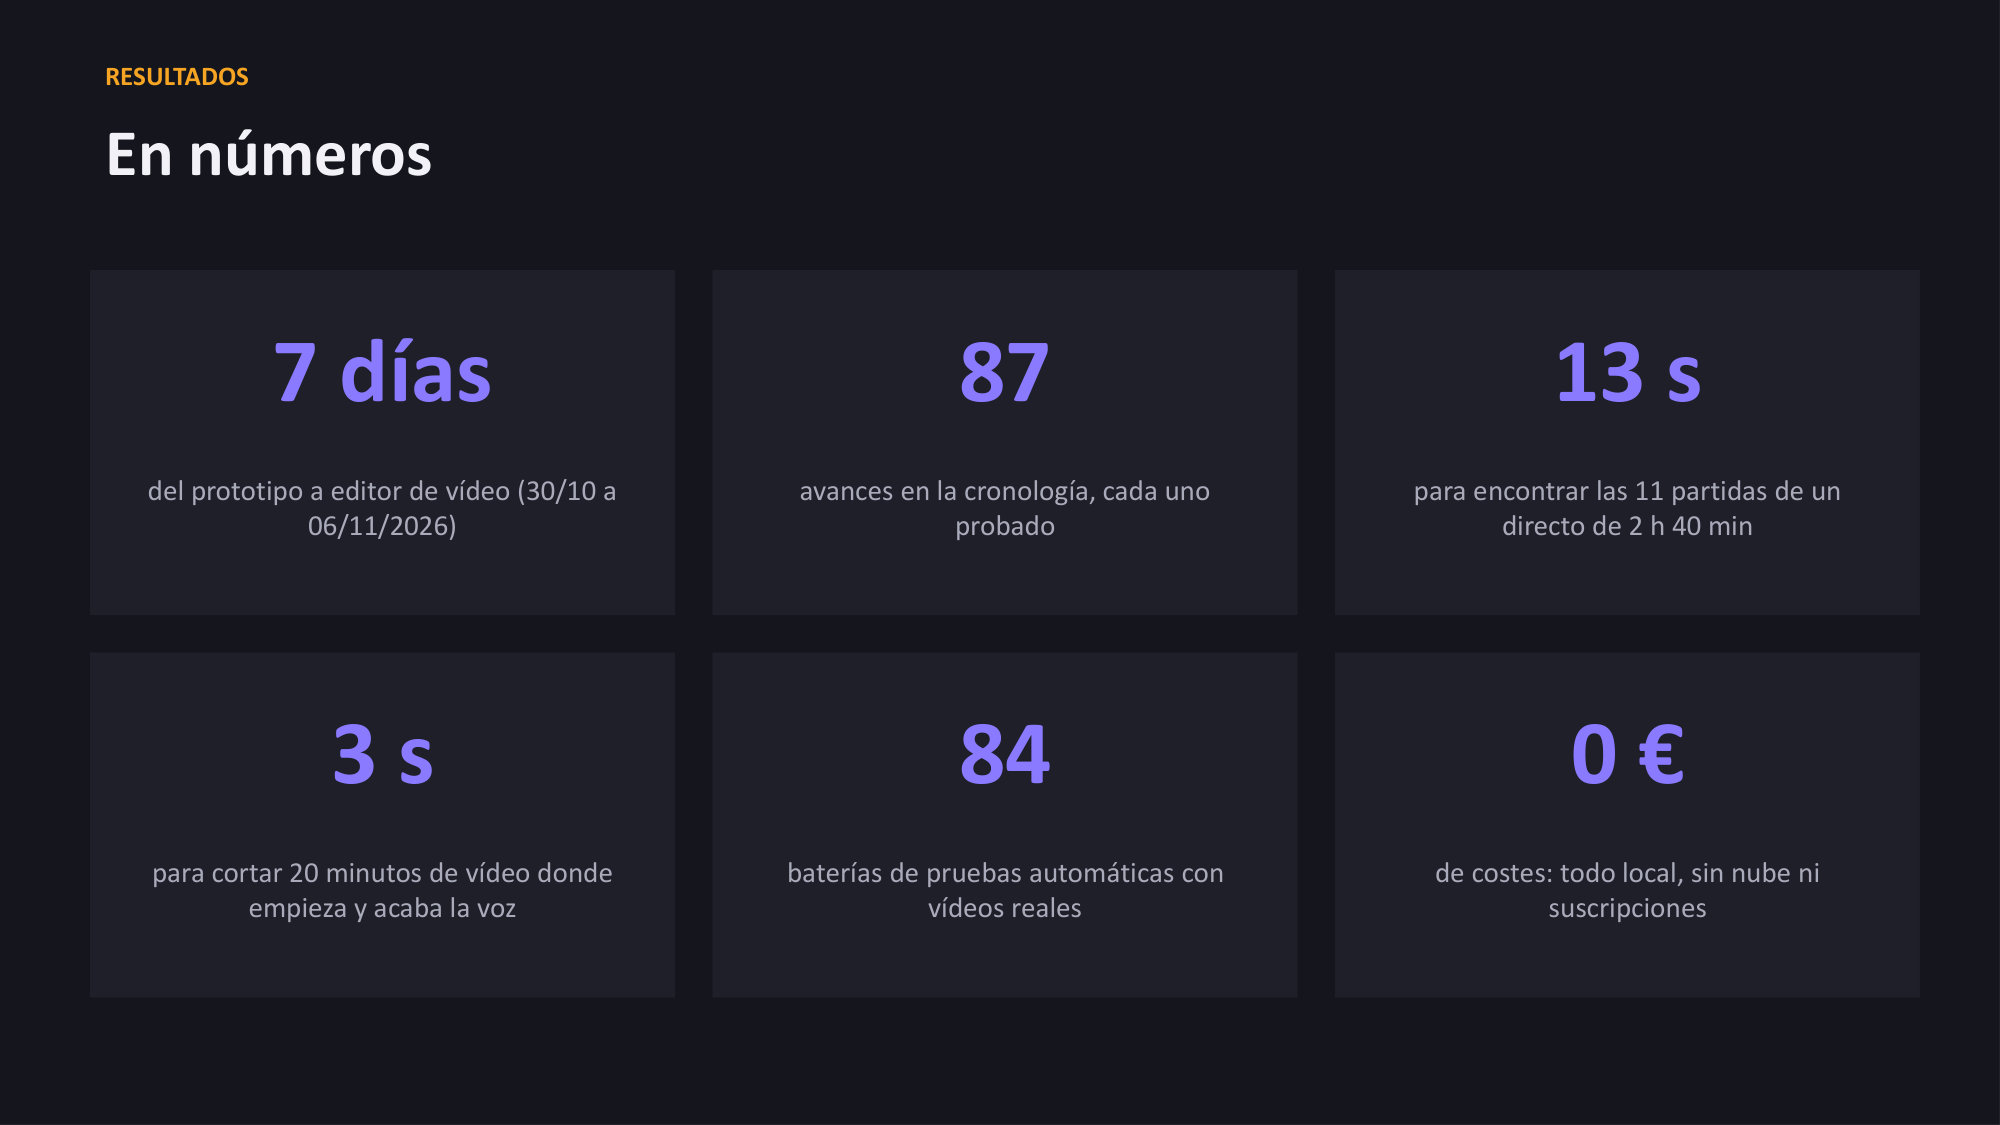
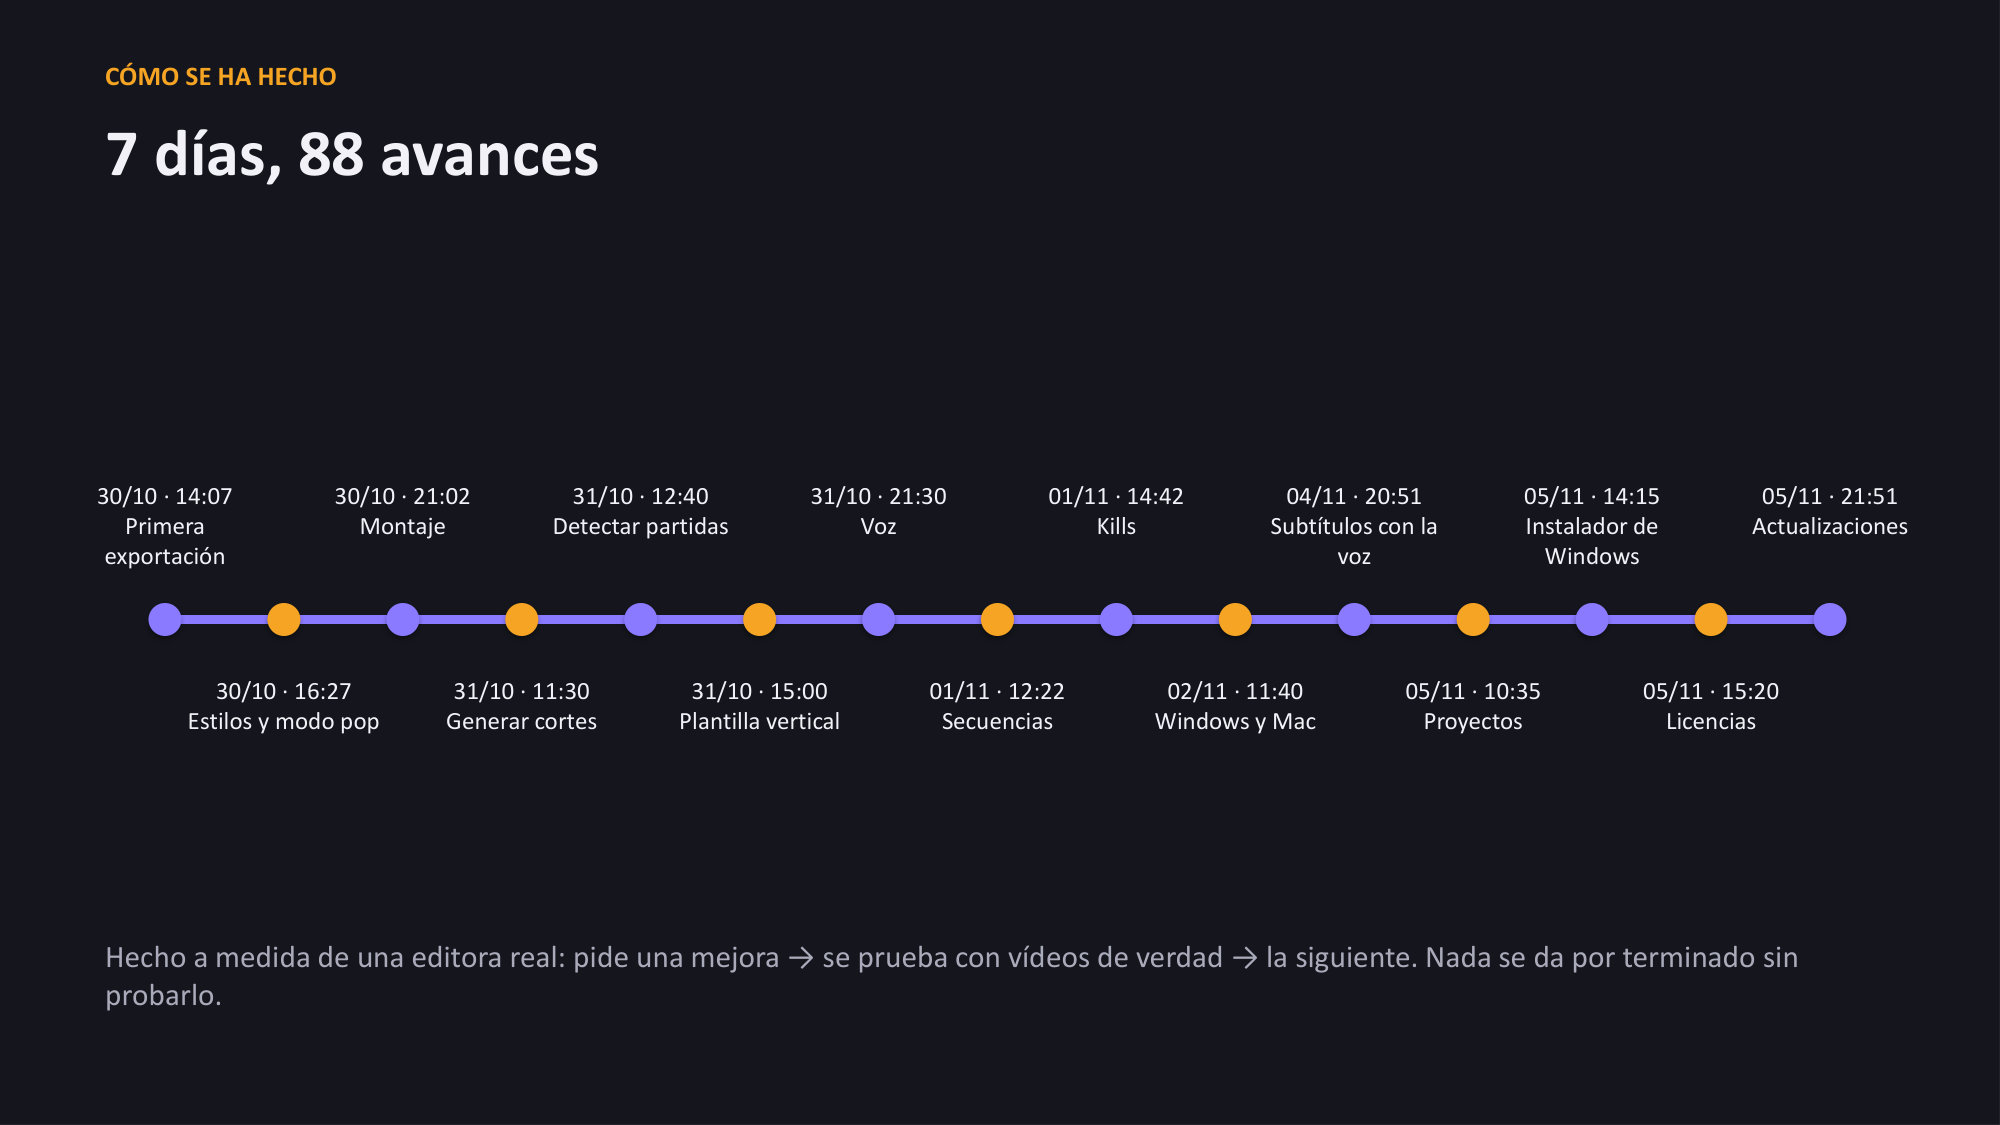
Presentación actualizada (06/11/2026)

diff --git a/index.html b/index.html
@@ -85,9 +85,10 @@ button:focus-visible { outline: 2px solid var(--amber); outline-offset: 2px; }
     <img src="diapositivas/16.jpg?v=b43ebe0cb0" alt="Diapositiva 16: ACTUALIZACIONES Cada versión nueva, con un clic Al abrir NoxCut, si hay una versión nueva (Windows) Al abrir la versión nueva: lo que trae ●Al abrir, NoxCut mir">
     <img src="diapositivas/17.jpg?v=f922026b1b" alt="Diapositiva 17: A MEDIDA Hecho con una editora que lo usa cada día Pidió: Poder arrastrar imágenes y vídeos desde el explorador, como en cualquier editor. → Se sueltan en cualq">
     <img src="diapositivas/18.jpg?v=a3d9475fdc" alt="Diapositiva 18: LICENCIAS Cada ordenador, su propia clave Lo que ve quien instala NoxCut la primera vez 1 Instalas NoxCut La primera vez te enseña el código único de tu ordenad">
-    <img src="diapositivas/19.jpg?v=53edda5c49" alt="Diapositiva 19: CÓMO SE HA HECHO 7 días, 87 avances 30/10 · 14:07 Primera exportación 30/10 · 16:27 Estilos y modo pop 30/10 · 21:02 Montaje 31/10 · 11:30 Generar cortes 31/10 ">
-    <img src="diapositivas/20.jpg?v=4598566ff4" alt="Diapositiva 20: RESULTADOS En números 7 días del prototipo a editor de vídeo (30/10 a 06/11/2026) 87 avances en la cronología, cada uno probado 13 s para encontrar las 11 parti">
-    <img src="diapositivas/21.jpg?v=ff5eef60f6" alt="Diapositiva 21: PRÓXIMOS PASOS Lo que viene Versión para Linux Lo mismo que en Mac y Windows: instalar y abrir con un clic. Aceleración AMD Investigar aceleración por GPU compa">
+    <img src="diapositivas/19.jpg?v=030211be08" alt="Diapositiva 19: DERECHOS Una obra registrada y protegida © © 2026 Garzanox · Todos los derechos reservados Registrado en Safe Creative Nº 2611067566781 · 06/11/2026 Autor Garza">
+    <img src="diapositivas/20.jpg?v=4e4b7e5b5d" alt="Diapositiva 20: CÓMO SE HA HECHO 7 días, 88 avances 30/10 · 14:07 Primera exportación 30/10 · 16:27 Estilos y modo pop 30/10 · 21:02 Montaje 31/10 · 11:30 Generar cortes 31/10 ">
+    <img src="diapositivas/21.jpg?v=7228fcbc71" alt="Diapositiva 21: RESULTADOS En números 7 días del prototipo a editor de vídeo (30/10 a 06/11/2026) 88 avances en la cronología, cada uno probado 13 s para encontrar las 11 parti">
+    <img src="diapositivas/22.jpg?v=ff5eef60f6" alt="Diapositiva 22: PRÓXIMOS PASOS Lo que viene Versión para Linux Lo mismo que en Mac y Windows: instalar y abrir con un clic. Aceleración AMD Investigar aceleración por GPU compa">
     <button class="side prev" id="sidePrev" aria-label="Diapositiva anterior"></button>
     <button class="side next" id="sideNext" aria-label="Diapositiva siguiente"></button>
   </div>
